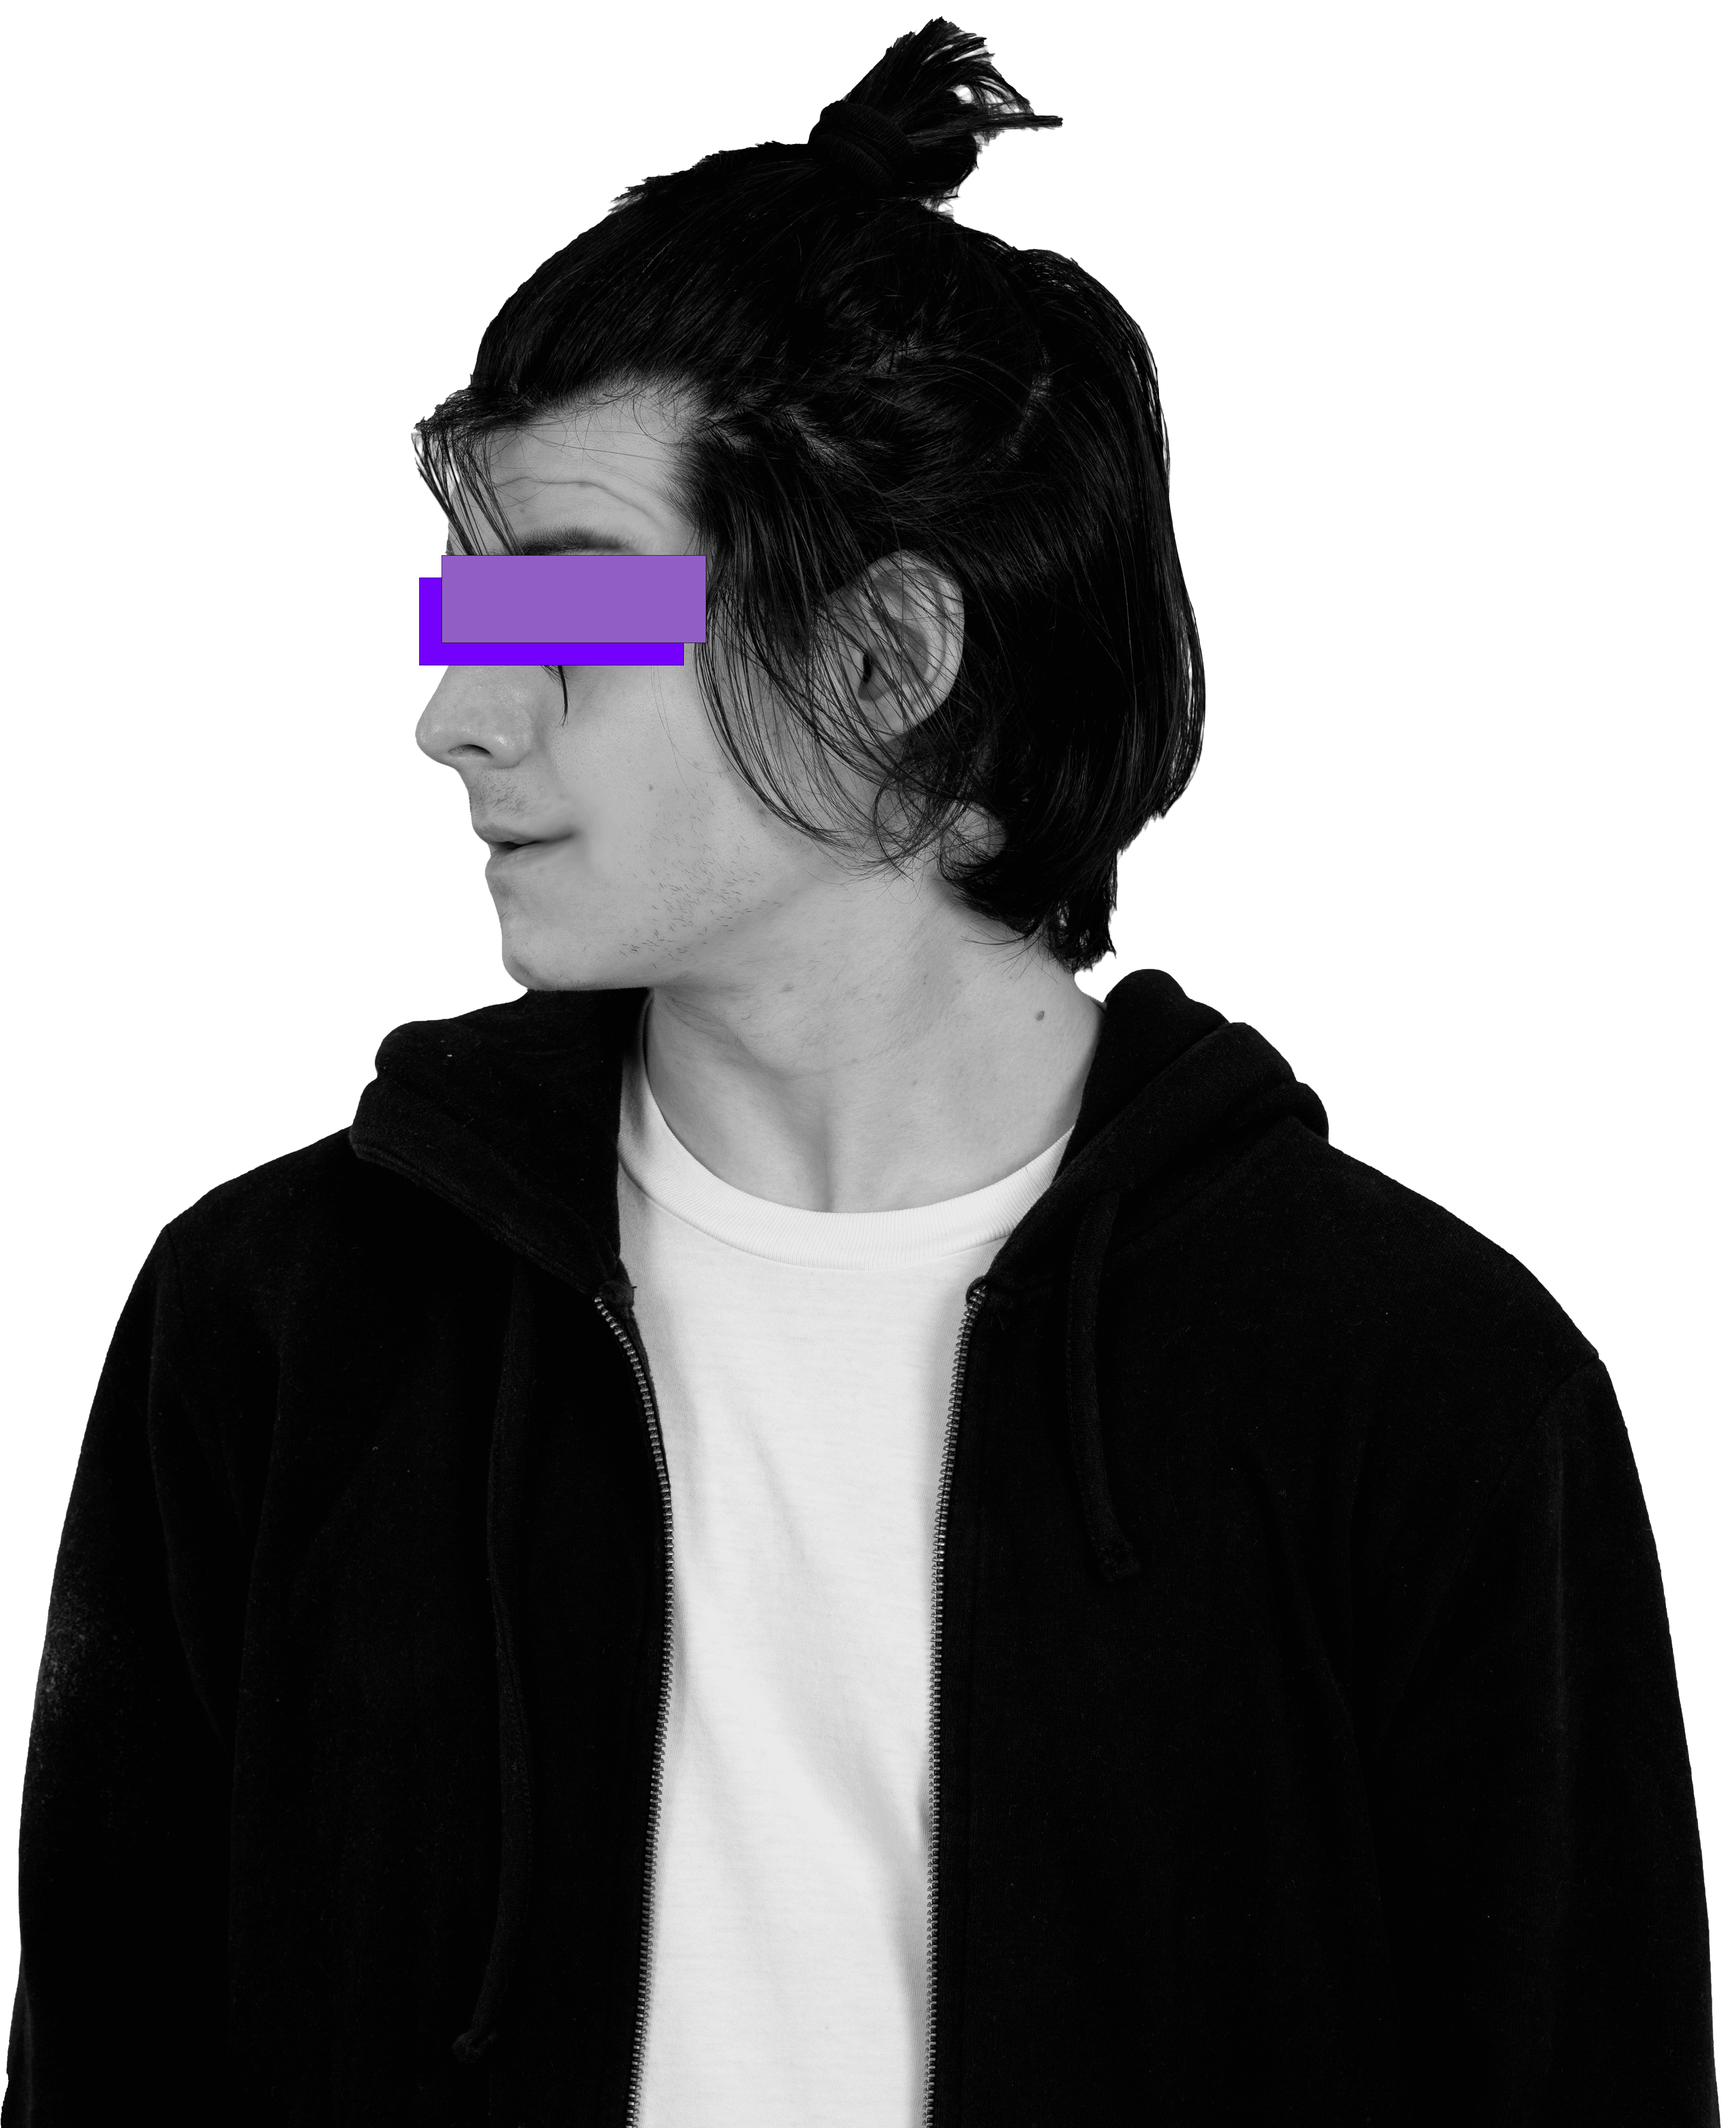
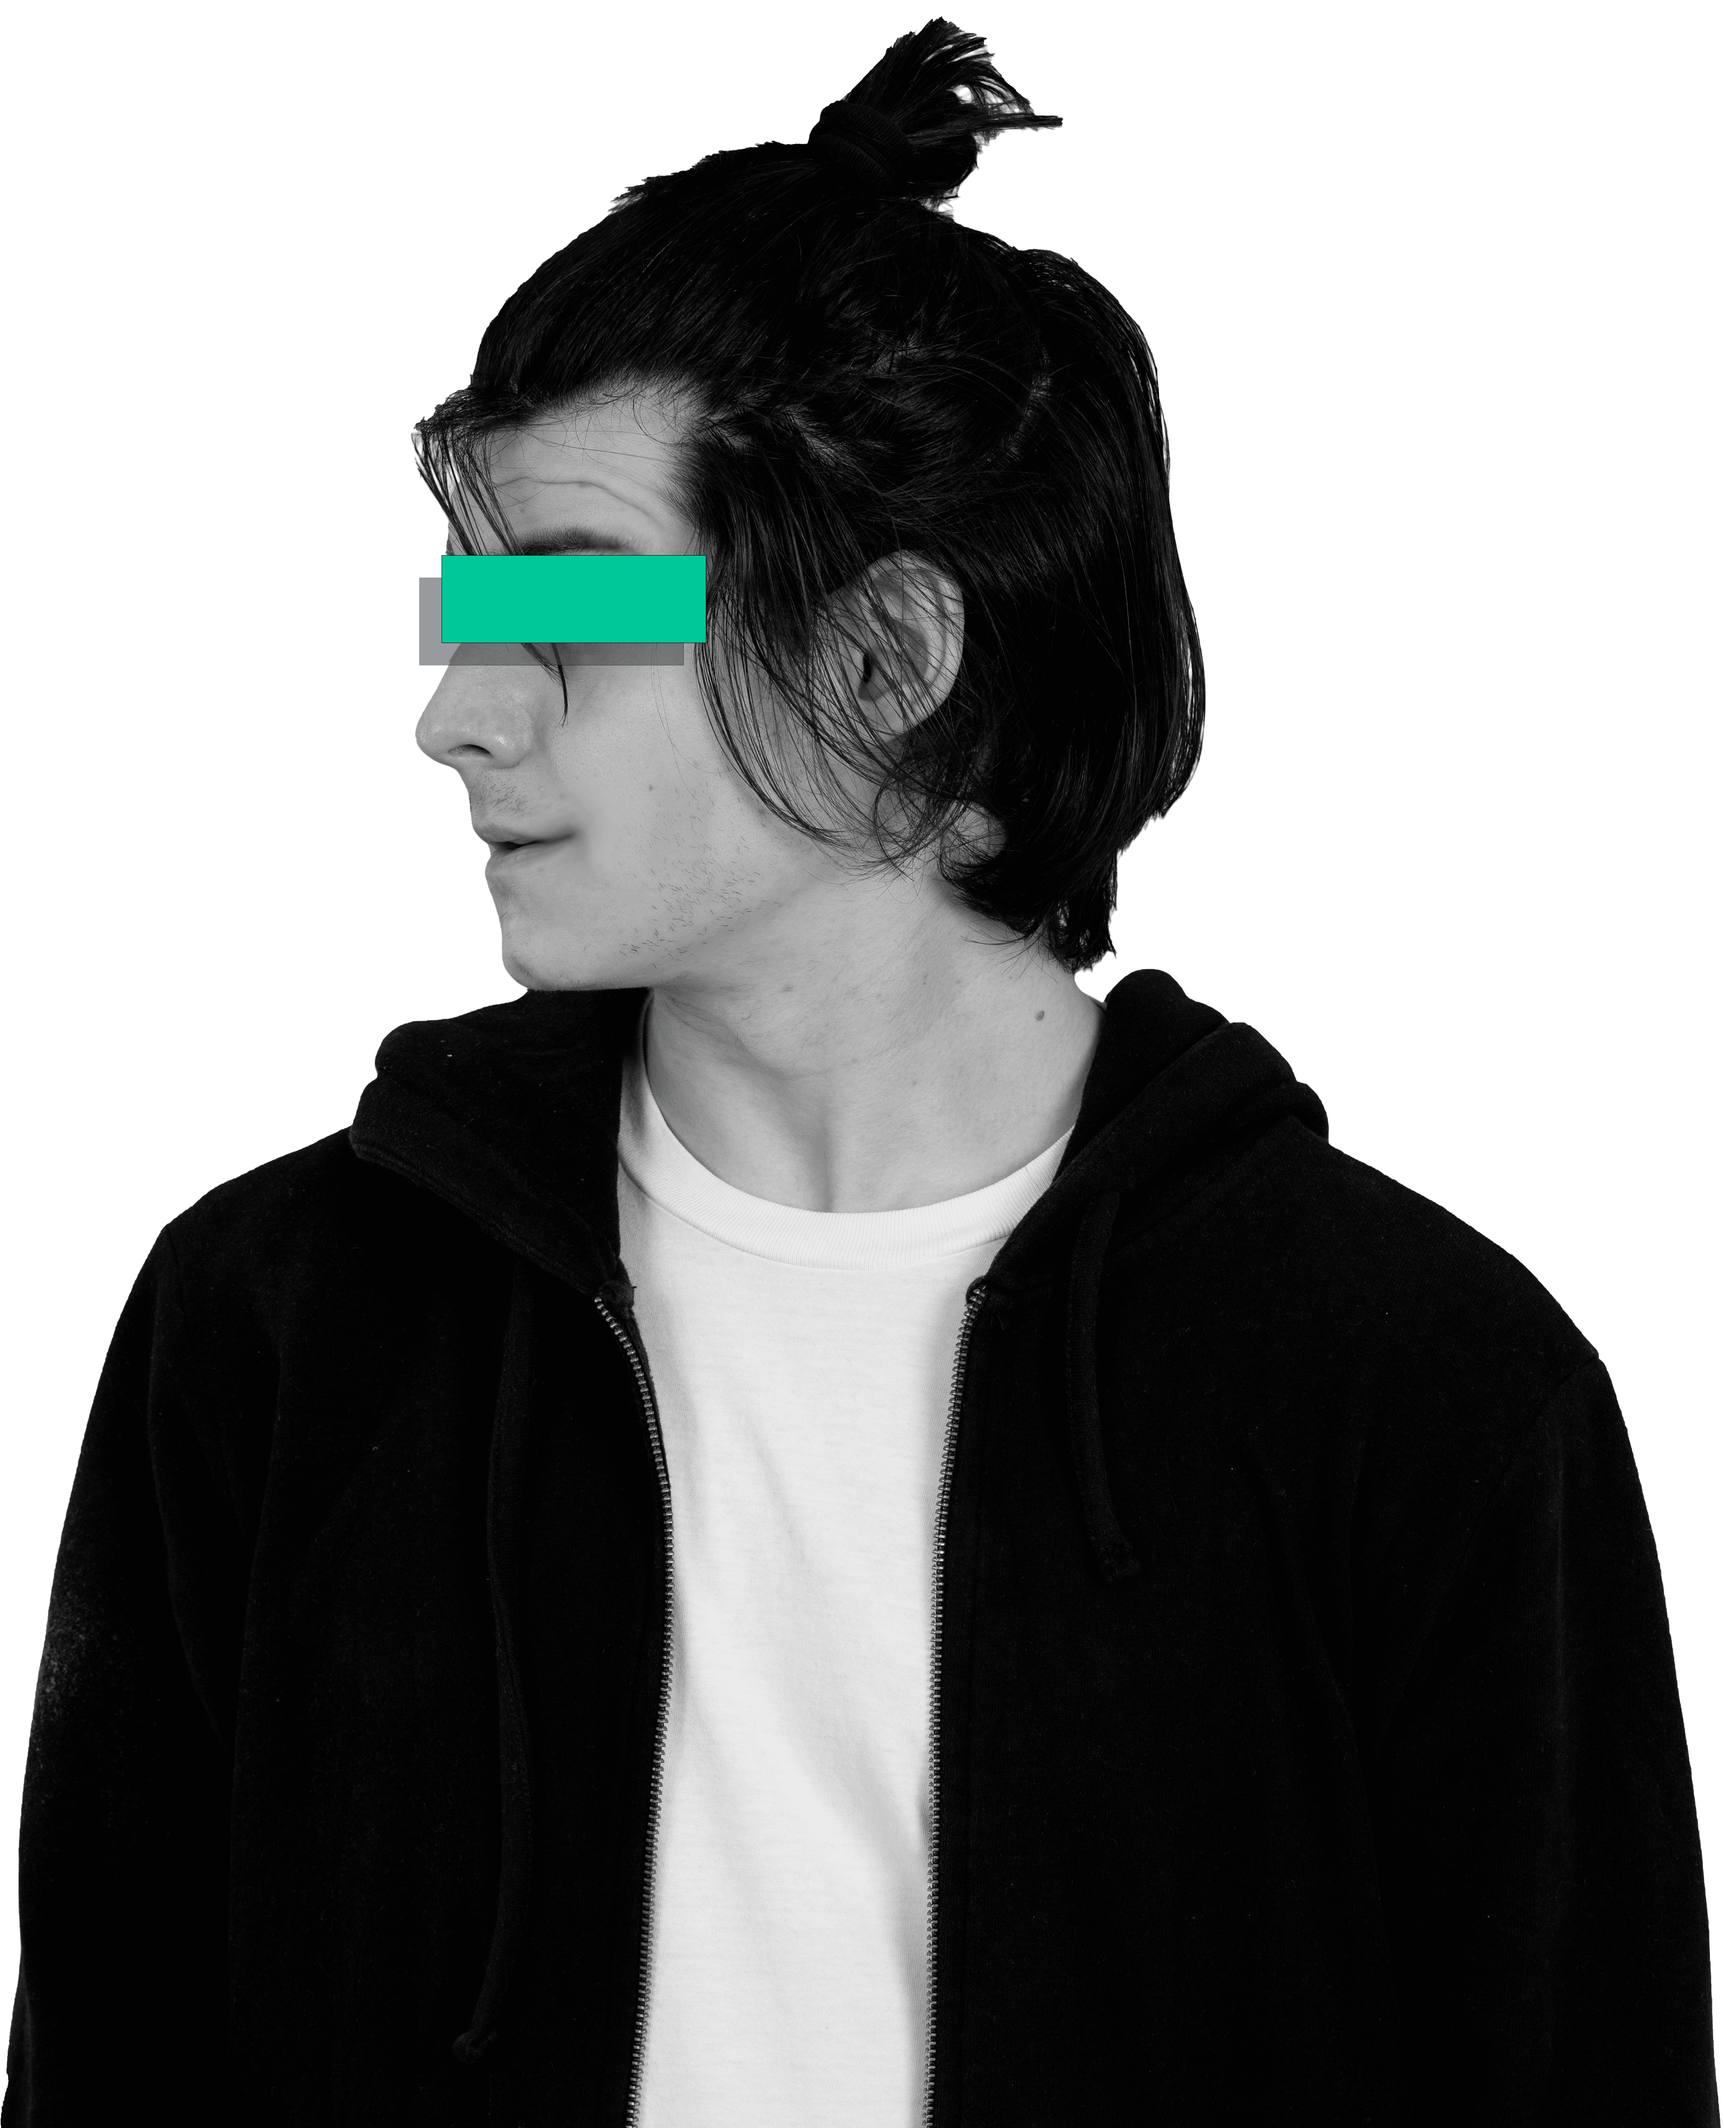
wola

Changed region(s): [[0.2186, 0.2492, 0.4061, 0.3115]]

diff --git a/src/components/hero.js b/src/components/hero.js
@@ -10,7 +10,7 @@ const Hero = () => {
         <div className="h-full grid grid-rows-[15%_25%_60%]">
             <div className="text-5xl row-start-1 flex flex-row pt-5 pl-8 items-start place-content-start text-[#0075FF] font-light"></div>
             <div className="row-start-2 px-10">
-                <div className="mb-5 text-xl">Hola! Soy Valentin Krajzelman, <div className="bg-[#845EC2] p-1 inline-block text-white">Programador Full-Stack.</div></div>
+                <div className="mb-5 text-xl">Hola! Soy Valentin Krajzelman, <div className="bg-[#32F1B5] p-1 inline-block ">Programador Full-Stack.</div></div>
                 <div className="text-sm">Buscas talento? Dejame mostrarte que puedo ofrecer al equipo.</div>
             </div>
             <div className="relative w-screen overflow-hidden row-start-3 bg-[#3B9CB9] ">
